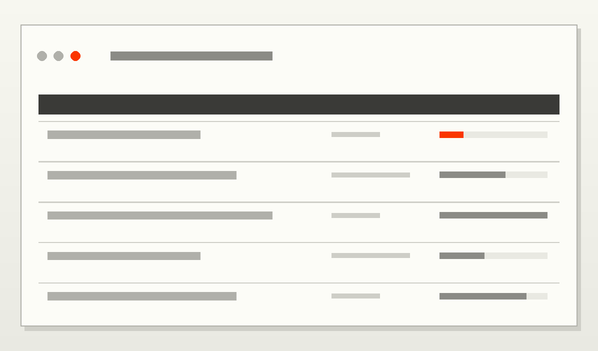
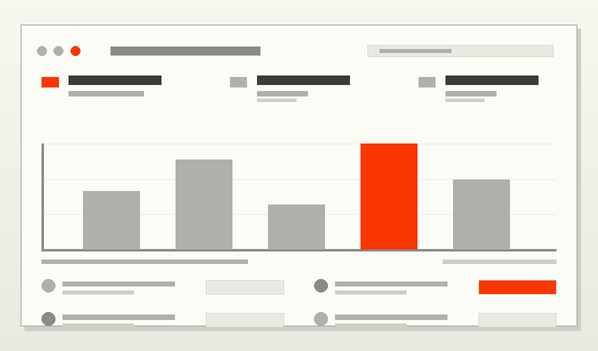
feat(r368): T3 platform media enrichment — the plan card gains graph-paper ground, filled two-tone rooms with wall strokes + door gaps + dimension ticks + orange signal room + tooltip chip + legend rail; the dashboard card gains window chrome + stat row + bar chart with axis/gridlines + two-column l

diff --git a/scripts/art/r368-original-media.py b/scripts/art/r368-original-media.py
@@ -165,68 +165,151 @@ def scene_arcade(d, w, h, wide=True):
 
 
 def scene_plan_card(d, w, h, wide=True):
-    """An authored plan card: our own floor-plan drawing on paper, one orange
-    header block. Generic architectural UI, no reference content."""
+    """An authored plan card (r368 T3 wave-4 enrichment): graph-paper ground,
+    a survey plan with FILLED rooms in two tones + wall strokes with door
+    gaps, dimension ticks, an orange highlighted room, a tooltip chip and a
+    ruled legend — geometric primitives only, no reference pixel."""
     vgrad(d, (0, 0, w, h), PAPER, MIST)
+
+    # graph-paper ground inside the card
     pad = w * 0.035
     card = [pad, h * 0.07, w - pad, h * 0.93]
     d.rectangle([card[0] + w * 0.006, card[1] + h * 0.012, card[2] + w * 0.006, card[3] + h * 0.012], fill=G4)
     d.rectangle(card, fill=WHITE, outline=G3, width=max(1, int(w * 0.0025)))
+    gx = max(2, int(w * 0.014))
+    gy = max(2, int(h * 0.020))
+    x = card[0] + gx
+    while x < card[2]:
+        d.rectangle([x, card[1], x + 1, card[3]], fill=(240, 240, 235))
+        x += gx * 3
+    y = card[1] + gy
+    while y < card[3]:
+        d.rectangle([card[0], y, card[2], y + 1], fill=(240, 240, 235))
+        y += gy * 3
 
-    # orange header block with three white rules
-    hdr = [card[0] + w * 0.03, card[1] + h * 0.05, card[0] + w * 0.42, card[1] + h * 0.44]
-    d.rectangle(hdr, fill=ORANGE)
-    for i in range(3):
-        y = hdr[1] + hdr[3] * (0.22 + i * 0.20) - hdr[1] * 0.0
-        d.rectangle([hdr[0] + w * 0.02, y, hdr[2] - w * (0.06 if i == 2 else 0.02), y + h * 0.012], fill=WHITE)
-
-    # plan drawing: rooms as ruled rectangles
-    px0, py0 = card[0] + w * 0.04, card[1] + h * 0.56
-    px1, py1 = card[0] + w * 0.60, card[3] - h * 0.08
-    d.rectangle([px0, py0, px1, py1], outline=G2, width=max(1, int(w * 0.003)))
-    d.line([(px0 + (px1 - px0) * 0.45, py0), (px0 + (px1 - px0) * 0.45, py1)], fill=G2, width=max(1, int(w * 0.003)))
-    d.line([(px0, py0 + (py1 - py0) * 0.5), (px1, py0 + (py1 - py0) * 0.5)], fill=G2, width=max(1, int(w * 0.002)))
-    d.rectangle([px0 + (px1 - px0) * 0.05, py0 + (py1 - py0) * 0.06, px0 + (px1 - px0) * 0.28, py0 + (py1 - py0) * 0.30], fill=G4)
-    d.rectangle([px0 + (px1 - px0) * 0.55, py0 + (py1 - py0) * 0.58, px0 + (px1 - px0) * 0.92, py0 + (py1 - py0) * 0.86], fill=G4)
-
-    # rule stack + grey legend at the right
-    rx = card[0] + w * 0.66
+    # the plan: a wall outline with door gaps, rooms FILLED in two tones,
+    # one room highlighted in orange (the reference's signal room)
+    px0, py0 = card[0] + w * 0.05, card[1] + h * 0.10
+    px1, py1 = card[0] + w * 0.66, card[1] + h * 0.78
+    wall = max(1, int(w * 0.004))
+    # room fills first (walls overdraw)
+    d.rectangle([px0, py0, px0 + (px1 - px0) * 0.46, py0 + (py1 - py0) * 0.52], fill=MIST)
+    d.rectangle([px0 + (px1 - px0) * 0.50, py0, px1, py0 + (py1 - py0) * 0.30], fill=(232, 232, 226))
+    d.rectangle([px0 + (px1 - px0) * 0.50, py0 + (py1 - py0) * 0.34, px1, py1], fill=MIST)
+    d.rectangle([px0, py0 + (py1 - py0) * 0.56, px0 + (px1 - px0) * 0.46, py1], fill=(226, 226, 220))
+    # the orange room
+    orx = px0 + (px1 - px0) * 0.10
+    ory = py0 + (py1 - py0) * 0.14
+    d.rectangle([orx, ory, orx + (px1 - px0) * 0.24, ory + (py1 - py0) * 0.26], fill=ORANGE)
+    # outer walls with two door gaps
+    for seg in (0, 1, 2, 3):
+        if seg == 0:
+            d.rectangle([px0, py0, px1, py0 + wall], fill=INK2)
+        if seg == 1:
+            d.rectangle([px1 - wall, py0, px1, py0 + (py1 - py0) * 0.55], fill=INK2)
+            d.rectangle([px1 - wall, py0 + (py1 - py0) * 0.68, px1, py1], fill=INK2)
+        if seg == 2:
+            d.rectangle([px0, py1 - wall, px0 + (px1 - px0) * 0.35, py1], fill=INK2)
+            d.rectangle([px0 + (px1 - px0) * 0.52, py1 - wall, px1, py1], fill=INK2)
+        if seg == 3:
+            d.rectangle([px0, py0, px0 + wall, py1], fill=INK2)
+    # inner partitions with gaps
+    mx = px0 + (px1 - px0) * 0.48
+    d.rectangle([mx - wall // 2, py0, mx + wall // 2, py0 + (py1 - py0) * 0.28], fill=INK2)
+    d.rectangle([mx - wall // 2, py0 + (py1 - py0) * 0.40, mx + wall // 2, py1], fill=INK2)
+    d.rectangle([px0, py0 + (py1 - py0) * 0.52, px0 + (px1 - px0) * 0.30, py0 + (py1 - py0) * 0.52 + wall], fill=INK2)
+    # dimension ticks top
     for i in range(7):
-        y = card[1] + h * (0.20 + i * 0.075)
-        d.rectangle([rx, y, card[2] - w * 0.05, y + h * 0.016], fill=G3 if i % 3 else G2)
+        tx = px0 + (px1 - px0) * i / 6
+        d.rectangle([tx, py0 - h * 0.030, tx, py0 - h * 0.014], fill=G2)
+    d.rectangle([px0, py0 - h * 0.022, px1, py0 - h * 0.020], fill=G3)
+
+    # the tooltip chip over the plan's upper right (the reference's card)
+    tip = [px1 - w * 0.02, py0 + h * 0.05, min(card[2] - w * 0.05, px1 + w * 0.24), py0 + h * 0.26]
+    d.rectangle([tip[0] + w * 0.004, tip[1] + h * 0.008, tip[2] + w * 0.004, tip[3] + h * 0.008], fill=G4)
+    d.rectangle(tip, fill=WHITE, outline=G2, width=max(1, int(w * 0.002)))
+    d.rectangle([tip[0] + w * 0.02, tip[1] + h * 0.035, tip[0] + w * 0.16, tip[1] + h * 0.055], fill=G2)
+    d.rectangle([tip[0] + w * 0.02, tip[1] + h * 0.085, tip[0] + w * 0.24, tip[1] + h * 0.100], fill=G3)
+    d.rectangle([tip[0] + w * 0.02, tip[1] + h * 0.12, tip[0] + w * 0.19, tip[1] + h * 0.134], fill=G3)
+    d.rectangle([tip[0] + w * 0.02, tip[1] + h * 0.16, tip[0] + w * 0.08, tip[1] + h * 0.185], fill=ORANGE)
+
+    # the legend column at the right: colour chips + rules
+    lx = card[0] + w * 0.72
+    for i, col in enumerate((ORANGE, G2, G3, MIST, G3, G2, G3)):
+        ly = card[1] + h * (0.14 + i * 0.098)
+        d.rectangle([lx, ly, lx + w * 0.045, ly + h * 0.045], fill=col, outline=G4, width=1)
+        d.rectangle([lx + w * 0.075, ly + h * 0.012, card[2] - w * 0.04, ly + h * 0.030], fill=G3 if i % 2 else G2)
+    # legend footer rule
+    d.rectangle([lx, card[3] - h * 0.10, card[2] - w * 0.04, card[3] - h * 0.098], fill=G3)
 
 
 def scene_dashboard(d, w, h, wide=True):
-    """An authored product card: header dots, a ruled table, one orange chip."""
+    """An authored dashboard card (r368 T3 wave-4 enrichment): window chrome,
+    a stat row with chip + figures, a bar chart with axis and gridlines, a
+    two-column list with orange action chips and avatar dots — geometric
+    primitives only, no reference pixel."""
     vgrad(d, (0, 0, w, h), PAPER, MIST)
     pad = w * 0.035
     card = [pad, h * 0.07, w - pad, h * 0.93]
     d.rectangle([card[0] + w * 0.006, card[1] + h * 0.012, card[2] + w * 0.006, card[3] + h * 0.012], fill=G4)
     d.rectangle(card, fill=WHITE, outline=G3, width=max(1, int(w * 0.0025)))
 
-    # header: three dots + a title rule
-    cy = card[1] + h * 0.09
+    # header: three dots + a title rule + a search pill
+    cy = card[1] + h * 0.075
     for i, col in enumerate((G3, G3, ORANGE)):
         cx = card[0] + w * (0.035 + i * 0.028)
         r = w * 0.008
         d.ellipse([cx - r, cy - r, cx + r, cy + r], fill=col)
-    d.rectangle([card[0] + w * 0.15, cy - h * 0.012, card[0] + w * 0.42, cy + h * 0.012], fill=G2)
+    d.rectangle([card[0] + w * 0.15, cy - h * 0.012, card[0] + w * 0.40, cy + h * 0.012], fill=G2)
+    d.rectangle([card[0] + w * 0.58, cy - h * 0.016, card[2] - w * 0.04, cy + h * 0.016], fill=MIST, outline=G4, width=1)
+    d.rectangle([card[0] + w * 0.60, cy - h * 0.005, card[0] + w * 0.72, cy + h * 0.005], fill=G3)
 
-    # the table: an ink header row then ruled rows with a bar meter column
-    ty = card[1] + h * 0.20
-    d.rectangle([card[0] + w * 0.03, ty, card[2] - w * 0.03, ty + h * 0.055], fill=INK2)
-    rows = 5
+    # stat row: three stat blocks (chip + big figure + delta rule)
+    sy = card[1] + h * 0.15
+    for i in range(3):
+        sx = card[0] + w * (0.035 + i * 0.315)
+        d.rectangle([sx, sy, sx + w * 0.028, sy + h * 0.028], fill=ORANGE if i == 0 else G3)
+        d.rectangle([sx + w * 0.045, sy - h * 0.004, sx + w * 0.20, sy + h * 0.022], fill=INK2)
+        d.rectangle([sx + w * 0.045, sy + h * 0.040, sx + w * (0.13 if i else 0.17), sy + h * 0.054], fill=G3)
+        if i:
+            d.rectangle([sx + w * 0.045, sy + h * 0.062, sx + w * 0.11, sy + h * 0.070], fill=G4)
+
+    # the chart: gridlines + axis + five bars (one orange)
+    ch0 = card[0] + w * 0.035
+    ch1 = card[2] - w * 0.035
+    cy0 = card[1] + h * 0.34
+    cy1 = card[1] + h * 0.64
+    for i in range(4):
+        gy = cy0 + (cy1 - cy0) * i / 3
+        d.rectangle([ch0, gy, ch1, gy + 1], fill=(240, 240, 235))
+    d.rectangle([ch0, cy1, ch1, cy1 + max(1, int(h * 0.006))], fill=G2)
+    d.rectangle([ch0, cy0, ch0 + max(1, int(w * 0.004)), cy1], fill=G2)
+    n = 5
+    bw = (ch1 - ch0) * 0.11
+    heights = (0.55, 0.85, 0.42, 1.0, 0.66)
+    for i in range(n):
+        bx = ch0 + (ch1 - ch0) * (0.08 + i * 0.18)
+        bh = (cy1 - cy0) * heights[i]
+        d.rectangle([bx, cy1 - bh, bx + bw, cy1], fill=ORANGE if i == 3 else G3)
+    # chart caption rules
+    d.rectangle([ch0, cy1 + h * 0.030, ch0 + (ch1 - ch0) * 0.4, cy1 + h * 0.042], fill=G3)
+    d.rectangle([ch1 - (ch1 - ch0) * 0.22, cy1 + h * 0.030, ch1, cy1 + h * 0.042], fill=G4)
+
+    # the two-column list: rows with avatar dot + rules + orange action chips
+    ly0 = card[1] + h * 0.72
+    rows = 2
     for i in range(rows):
-        ry = ty + h * 0.075 + i * h * 0.115
-        d.rectangle([card[0] + w * 0.03, ry, card[2] - w * 0.03, ry + h * 0.0022], fill=G4)
-        d.rectangle([card[0] + w * 0.045, ry + h * 0.028, card[0] + w * (0.30 + 0.06 * (i % 3)), ry + h * 0.05], fill=G3)
-        d.rectangle([card[0] + w * 0.52, ry + h * 0.032, card[0] + w * (0.60 + 0.05 * (i % 2)), ry + h * 0.045], fill=G4)
-        # the meter
-        d.rectangle([card[0] + w * 0.70, ry + h * 0.030, card[2] - w * 0.05, ry + h * 0.047], fill=MIST)
-        d.rectangle(
-            [card[0] + w * 0.70, ry + h * 0.030, card[0] + w * (0.74 + 0.035 * ((i * 2) % 5)), ry + h * 0.047],
-            fill=ORANGE if i == 0 else G2,
-        )
+        ry = ly0 + i * h * 0.095
+        colw = (ch1 - ch0) * 0.47
+        for c in range(2):
+            rx = ch0 + c * (colw + (ch1 - ch0) * 0.06)
+            r = w * 0.011
+            d.ellipse([rx, ry + h * 0.005, rx + 2 * r, ry + h * 0.005 + 2 * r], fill=G2 if (i + c) % 2 else G3)
+            d.rectangle([rx + w * 0.035, ry + h * 0.012, rx + colw * 0.55, ry + h * 0.026], fill=G3)
+            d.rectangle([rx + w * 0.035, ry + h * 0.038, rx + colw * 0.38, ry + h * 0.048], fill=G4)
+            # the action chip (orange on the first row's right column)
+            chip_col = ORANGE if (i == 0 and c == 1) else MIST
+            d.rectangle([rx + colw * 0.68, ry + h * 0.008, rx + colw, ry + h * 0.048], fill=chip_col, outline=G4, width=1)
 
 
 SEATS = [
